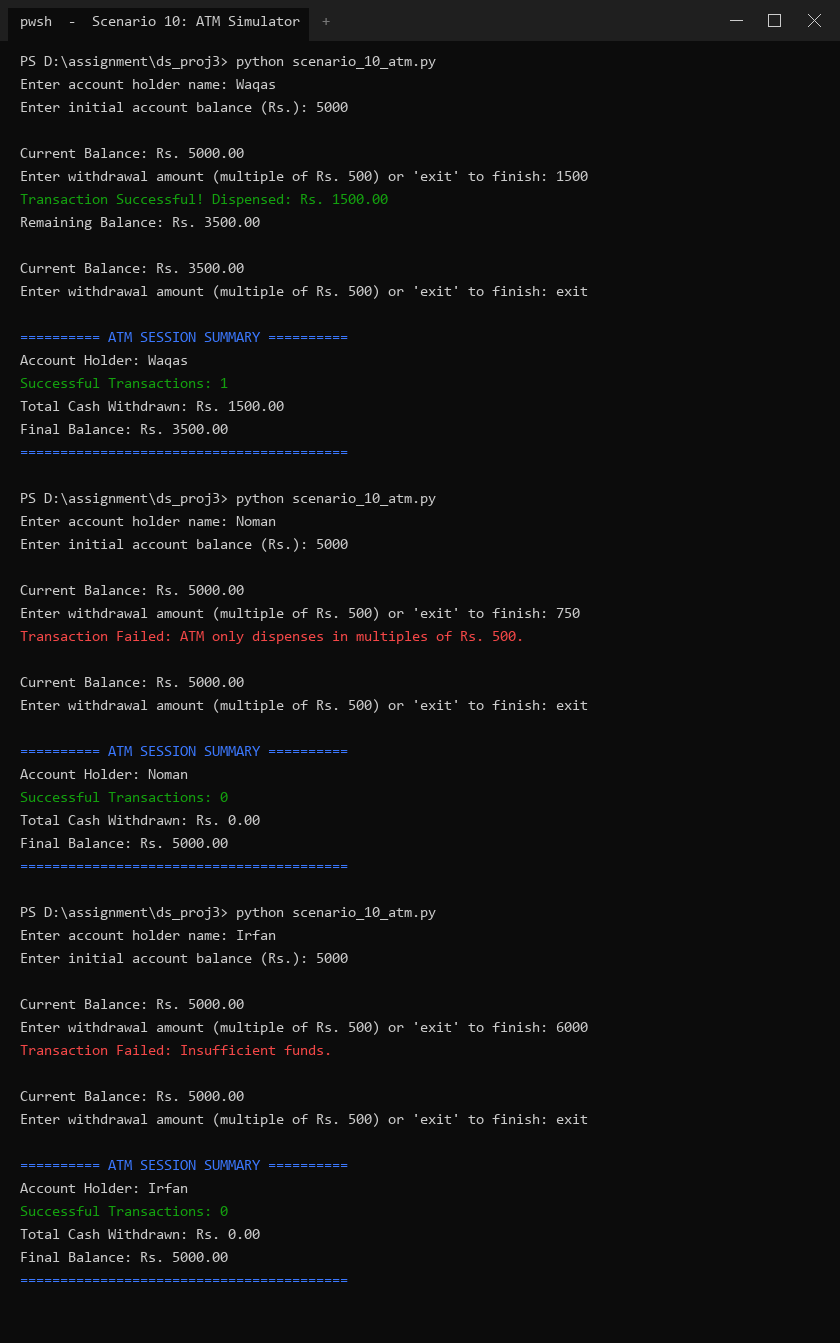
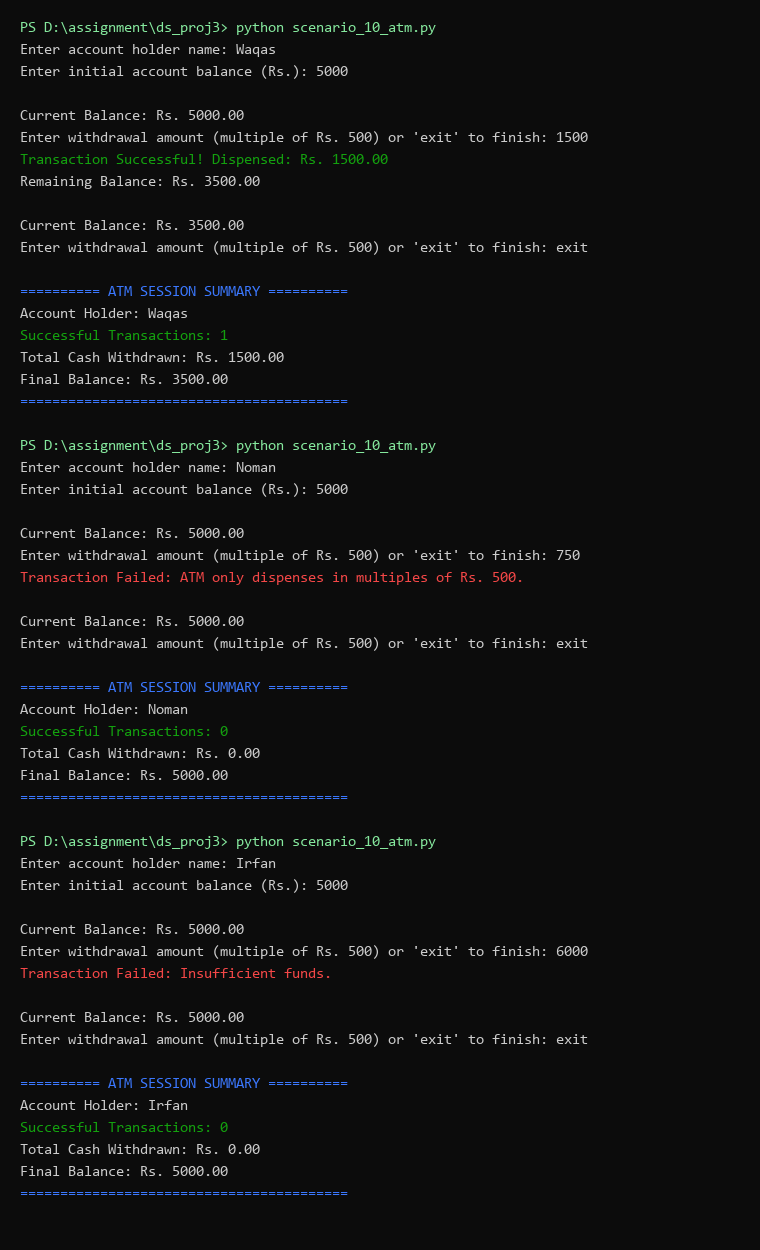
feat: add syntax-highlighted code images (scenario_##_code.png) and clean terminal run images without window ribbons

diff --git a/README.md b/README.md
@@ -84,8 +84,10 @@ Per course instructions, **strict pedagogical constraints** were adhered to acro
   3. Check dual eligibility condition: `Intermediate Percentage >= 60.0%` AND `Entry-Test Percentage >= 50.0%`.
   4. If ineligible, output granular diagnostic explanation (failed intermediate, failed entry test, or failed both).
 - **Expected Outputs:** Applicant name, both percentages formatted to 2 decimal places, eligibility status (`ELIGIBLE` / `NOT ELIGIBLE`), and failure reason if applicable.
-- **Terminal Execution Screenshot:**  
-  ![Scenario 01 Windows Terminal Run](screenshots/scenario_01_run.png)
+- **Python Code Snippet:**  
+  ![Scenario 01 Code Snippet](screenshots/scenario_01_code.png)
+- **Terminal Execution Output:**  
+  ![Scenario 01 Terminal Run](screenshots/scenario_01_run.png)
 
 ---
 
@@ -103,8 +105,10 @@ Per course instructions, **strict pedagogical constraints** were adhered to acro
      - If `units <= 200`: `bill = (100 * 10) + ((units - 100) * 15)`
      - If `units > 200`: `bill = (100 * 10) + (100 * 15) + ((units - 200) * 20)`
 - **Expected Outputs:** Consumer name, units consumed, and total progressive bill in Rs.
-- **Terminal Execution Screenshot:**  
-  ![Scenario 02 Windows Terminal Run](screenshots/scenario_02_run.png)
+- **Python Code Snippet:**  
+  ![Scenario 02 Code Snippet](screenshots/scenario_02_code.png)
+- **Terminal Execution Output:**  
+  ![Scenario 02 Terminal Run](screenshots/scenario_02_run.png)
 
 ---
 
@@ -120,8 +124,10 @@ Per course instructions, **strict pedagogical constraints** were adhered to acro
   3. Print status checklist of missing vs. satisfied rules without printing the plain password text (security compliance).
   4. Reprompt until an acceptable password is provided or the user types `'STOP'`.
 - **Expected Outputs:** Rule checklist evaluation, acceptability status, and prompt iteration.
-- **Terminal Execution Screenshot:**  
-  ![Scenario 03 Windows Terminal Run](screenshots/scenario_03_run.png)
+- **Python Code Snippet:**  
+  ![Scenario 03 Code Snippet](screenshots/scenario_03_code.png)
+- **Terminal Execution Output:**  
+  ![Scenario 03 Terminal Run](screenshots/scenario_03_run.png)
 
 ---
 
@@ -135,8 +141,10 @@ Per course instructions, **strict pedagogical constraints** were adhered to acro
      - `discount = 0.10 * total_subtotal` (if `total_subtotal >= 1000.0`, else `0.0`)
      - `final_bill = total_subtotal - discount`
 - **Expected Outputs:** Item addition acknowledgments, itemized receipt with subtotal, discount amount, and final total payable.
-- **Terminal Execution Screenshot:**  
-  ![Scenario 04 Windows Terminal Run](screenshots/scenario_04_run.png)
+- **Python Code Snippet:**  
+  ![Scenario 04 Code Snippet](screenshots/scenario_04_code.png)
+- **Terminal Execution Output:**  
+  ![Scenario 04 Terminal Run](screenshots/scenario_04_run.png)
 
 ---
 
@@ -153,8 +161,10 @@ Per course instructions, **strict pedagogical constraints** were adhered to acro
   4. Classify position: "Within Budget", "Budget Exhausted", or "Overspending".
   5. Trigger explicit warning if spent percentage > 80.0%.
 - **Expected Outputs:** Summary report with allowance, total expenditure, remaining balance, percentage spent, and financial status.
-- **Terminal Execution Screenshot:**  
-  ![Scenario 05 Windows Terminal Run](screenshots/scenario_05_run.png)
+- **Python Code Snippet:**  
+  ![Scenario 05 Code Snippet](screenshots/scenario_05_code.png)
+- **Terminal Execution Output:**  
+  ![Scenario 05 Terminal Run](screenshots/scenario_05_run.png)
 
 ---
 
@@ -171,8 +181,10 @@ Per course instructions, **strict pedagogical constraints** were adhered to acro
   3. If age >= 60, apply a 20% senior citizen discount on the base fare (`discount = 0.20 * base_fare`).
   4. Calculate payable fare: `final_fare = base_fare - discount`.
 - **Expected Outputs:** Formatted ticket displaying distance, age, base fare, discount amount, and final payable fare.
-- **Terminal Execution Screenshot:**  
-  ![Scenario 06 Windows Terminal Run](screenshots/scenario_06_run.png)
+- **Python Code Snippet:**  
+  ![Scenario 06 Code Snippet](screenshots/scenario_06_code.png)
+- **Terminal Execution Output:**  
+  ![Scenario 06 Terminal Run](screenshots/scenario_06_run.png)
 
 ---
 
@@ -188,8 +200,10 @@ Per course instructions, **strict pedagogical constraints** were adhered to acro
      - Else: discount rate = 0%
   4. Calculate `final_bill = subtotal - (subtotal * discount_rate)`.
 - **Expected Outputs:** Checkout summary showing total items purchased, gross subtotal, applied discount percentage, discount savings, and net bill.
-- **Terminal Execution Screenshot:**  
-  ![Scenario 07 Windows Terminal Run](screenshots/scenario_07_run.png)
+- **Python Code Snippet:**  
+  ![Scenario 07 Code Snippet](screenshots/scenario_07_code.png)
+- **Terminal Execution Output:**  
+  ![Scenario 07 Terminal Run](screenshots/scenario_07_run.png)
 
 ---
 
@@ -205,8 +219,10 @@ Per course instructions, **strict pedagogical constraints** were adhered to acro
      - Days beyond 10: Rs. 50 per day.
      - Formula for > 10 days: `total_fine = (5 * 10) + (5 * 20) + ((days_late - 10) * 50)`
 - **Expected Outputs:** Library fine statement detailing book title, student name, days late, and computed progressive fine.
-- **Terminal Execution Screenshot:**  
-  ![Scenario 08 Windows Terminal Run](screenshots/scenario_08_run.png)
+- **Python Code Snippet:**  
+  ![Scenario 08 Code Snippet](screenshots/scenario_08_code.png)
+- **Terminal Execution Output:**  
+  ![Scenario 08 Terminal Run](screenshots/scenario_08_run.png)
 
 ---
 
@@ -219,8 +235,10 @@ Per course instructions, **strict pedagogical constraints** were adhered to acro
   3. Perform case-insensitive substring membership check using `lower()`.
   4. Generate uppercase and lowercase message transformations.
 - **Expected Outputs:** Full analysis report including vowel count, digit count, space count, and search phrase discovery result.
-- **Terminal Execution Screenshot:**  
-  ![Scenario 09 Windows Terminal Run](screenshots/scenario_09_run.png)
+- **Python Code Snippet:**  
+  ![Scenario 09 Code Snippet](screenshots/scenario_09_code.png)
+- **Terminal Execution Output:**  
+  ![Scenario 09 Terminal Run](screenshots/scenario_09_run.png)
 
 ---
 
@@ -232,8 +250,10 @@ Per course instructions, **strict pedagogical constraints** were adhered to acro
   2. Validate: withdrawal > 0, exact multiple of Rs. 500 (`amount % 500 == 0`), and withdrawal <= current balance.
   3. Failed transactions preserve balance and statistics without deduction.
 - **Expected Outputs:** Real-time transaction feedback, remaining balance updates, and final session summary.
-- **Terminal Execution Screenshot:**  
-  ![Scenario 10 Windows Terminal Run](screenshots/scenario_10_run.png)
+- **Python Code Snippet:**  
+  ![Scenario 10 Code Snippet](screenshots/scenario_10_code.png)
+- **Terminal Execution Output:**  
+  ![Scenario 10 Terminal Run](screenshots/scenario_10_run.png)
 
 ---
 
@@ -246,8 +266,10 @@ Per course instructions, **strict pedagogical constraints** were adhered to acro
   3. Provide directional hints ("Too high!", "Too low!").
   4. Terminate on exact match or exhaust 7 attempts and reveal secret number.
 - **Expected Outputs:** Attempt counter, win/loss congratulations or game-over message with revealed secret number.
-- **Terminal Execution Screenshot:**  
-  ![Scenario 11 Windows Terminal Run](screenshots/scenario_11_run.png)
+- **Python Code Snippet:**  
+  ![Scenario 11 Code Snippet](screenshots/scenario_11_code.png)
+- **Terminal Execution Output:**  
+  ![Scenario 11 Terminal Run](screenshots/scenario_11_run.png)
 
 ---
 
@@ -261,8 +283,10 @@ Per course instructions, **strict pedagogical constraints** were adhered to acro
   4. Calculate attendance percentage = `(present_days / 26) * 100`.
   5. Issue threshold warning if attendance < 80.0%.
 - **Expected Outputs:** Attendance summary (present/absent), attendance percentage, total monthly salary, and low attendance warning if triggered.
-- **Terminal Execution Screenshot:**  
-  ![Scenario 12 Windows Terminal Run](screenshots/scenario_12_run.png)
+- **Python Code Snippet:**  
+  ![Scenario 12 Code Snippet](screenshots/scenario_12_code.png)
+- **Terminal Execution Output:**  
+  ![Scenario 12 Terminal Run](screenshots/scenario_12_run.png)
 
 ---
 
@@ -275,8 +299,10 @@ Per course instructions, **strict pedagogical constraints** were adhered to acro
   3. Validate customer count: reject negative values and reject numbers exceeding total capacity.
   4. Calculate unoccupied seats = `total_capacity - customers`.
 - **Expected Outputs:** Formatted row-by-row seat chart, reservation confirmation, and unoccupied count.
-- **Terminal Execution Screenshot:**  
-  ![Scenario 13 Windows Terminal Run](screenshots/scenario_13_run.png)
+- **Python Code Snippet:**  
+  ![Scenario 13 Code Snippet](screenshots/scenario_13_code.png)
+- **Terminal Execution Output:**  
+  ![Scenario 13 Terminal Run](screenshots/scenario_13_run.png)
 
 ---
 
@@ -289,8 +315,10 @@ Per course instructions, **strict pedagogical constraints** were adhered to acro
   3. Increment multi-band counters: > 35°C, < 10°C, and between 10°C and 35°C inclusive.
   4. Compute average temperature = `total_temp / days`.
 - **Expected Outputs:** Comprehensive weather report with average, maximum, minimum, and day counts in each temperature band.
-- **Terminal Execution Screenshot:**  
-  ![Scenario 14 Windows Terminal Run](screenshots/scenario_14_run.png)
+- **Python Code Snippet:**  
+  ![Scenario 14 Code Snippet](screenshots/scenario_14_code.png)
+- **Terminal Execution Output:**  
+  ![Scenario 14 Terminal Run](screenshots/scenario_14_run.png)
 
 ---
 
@@ -303,8 +331,10 @@ Per course instructions, **strict pedagogical constraints** were adhered to acro
   3. While balance < goal, accept weekly deposits, reject negative deposits without penalty, and accumulate savings.
   4. Allow voluntary early termination via `'stop'`.
 - **Expected Outputs:** Weekly remaining balance updates, total accumulated amount, weeks elapsed, and final target achievement status.
-- **Terminal Execution Screenshot:**  
-  ![Scenario 15 Windows Terminal Run](screenshots/scenario_15_run.png)
+- **Python Code Snippet:**  
+  ![Scenario 15 Code Snippet](screenshots/scenario_15_code.png)
+- **Terminal Execution Output:**  
+  ![Scenario 15 Terminal Run](screenshots/scenario_15_run.png)
 
 ---
 
@@ -320,8 +350,10 @@ Per course instructions, **strict pedagogical constraints** were adhered to acro
   3. Maintain category counters, total tickets sold, and total revenue.
   4. Guard against zero division when computing average ticket price.
 - **Expected Outputs:** Ticket count breakdown by category, total tickets, gross box office revenue, and average ticket price.
-- **Terminal Execution Screenshot:**  
-  ![Scenario 16 Windows Terminal Run](screenshots/scenario_16_run.png)
+- **Python Code Snippet:**  
+  ![Scenario 16 Code Snippet](screenshots/scenario_16_code.png)
+- **Terminal Execution Output:**  
+  ![Scenario 16 Terminal Run](screenshots/scenario_16_run.png)
 
 ---
 
@@ -334,8 +366,10 @@ Per course instructions, **strict pedagogical constraints** were adhered to acro
   3. Compare against mathematical product, provide instant feedback, and maintain correct/incorrect counters.
   4. Compute percentage score and assign four-tier performance rating.
 - **Expected Outputs:** Question prompts, answer evaluation, final score percentage, and qualitative performance badge.
-- **Terminal Execution Screenshot:**  
-  ![Scenario 17 Windows Terminal Run](screenshots/scenario_17_run.png)
+- **Python Code Snippet:**  
+  ![Scenario 17 Code Snippet](screenshots/scenario_17_code.png)
+- **Terminal Execution Output:**  
+  ![Scenario 17 Terminal Run](screenshots/scenario_17_run.png)
 
 ---
 
@@ -349,8 +383,10 @@ Per course instructions, **strict pedagogical constraints** were adhered to acro
   4. Accumulate employee sales breakdown into a formatted display string.
   5. Track highest sales online: if a strictly greater figure arrives, update top employee and reset tie flag; if an exact duplicate arrives, toggle tie flag.
 - **Expected Outputs:** Individual breakdown, total sales, average sales per employee, count of target achievers, and top performer / tie announcement.
-- **Terminal Execution Screenshot:**  
-  ![Scenario 18 Windows Terminal Run](screenshots/scenario_18_run.png)
+- **Python Code Snippet:**  
+  ![Scenario 18 Code Snippet](screenshots/scenario_18_code.png)
+- **Terminal Execution Output:**  
+  ![Scenario 18 Terminal Run](screenshots/scenario_18_run.png)
 
 ---
 
@@ -394,6 +430,7 @@ This exercise deepened our understanding of core computational fundamentals, dem
 ## Submission Checklist Verification
 - [x] All 18 Python scripts created with exact canonical filenames (`scenario_01_admission.py` through `scenario_18_sales_dashboard.py`).
 - [x] Strict compliance with zero advanced features (no lists, dictionaries, custom functions, or external packages).
-- [x] Structured `README.md` complete with GitHub file paths, clean plain-text formulas (no unescaped math errors), scenario index, input-processing-output breakdown, test cases, and reflection.
-- [x] Authentic Windows Terminal PowerShell screenshots generated for all 18 scenarios and stored in `screenshots/`.
+- [x] Structured `README.md` complete with GitHub file paths, clean plain-text formulas (no unescaped math errors), scenario index, input-processing-output breakdown, test cases, code snippet images, and reflection.
+- [x] Clean terminal run screenshots (no ribbons, headings, or window chrome) generated for all 18 scenarios and stored in `screenshots/`.
+- [x] Syntax-highlighted Python code snippet images (`scenario_##_code.png`) generated for all 18 scenarios and stored in `screenshots/`.
 - [x] Archive compressed and verified as `MSDSF25A007_Python_asg_01.zip`.
